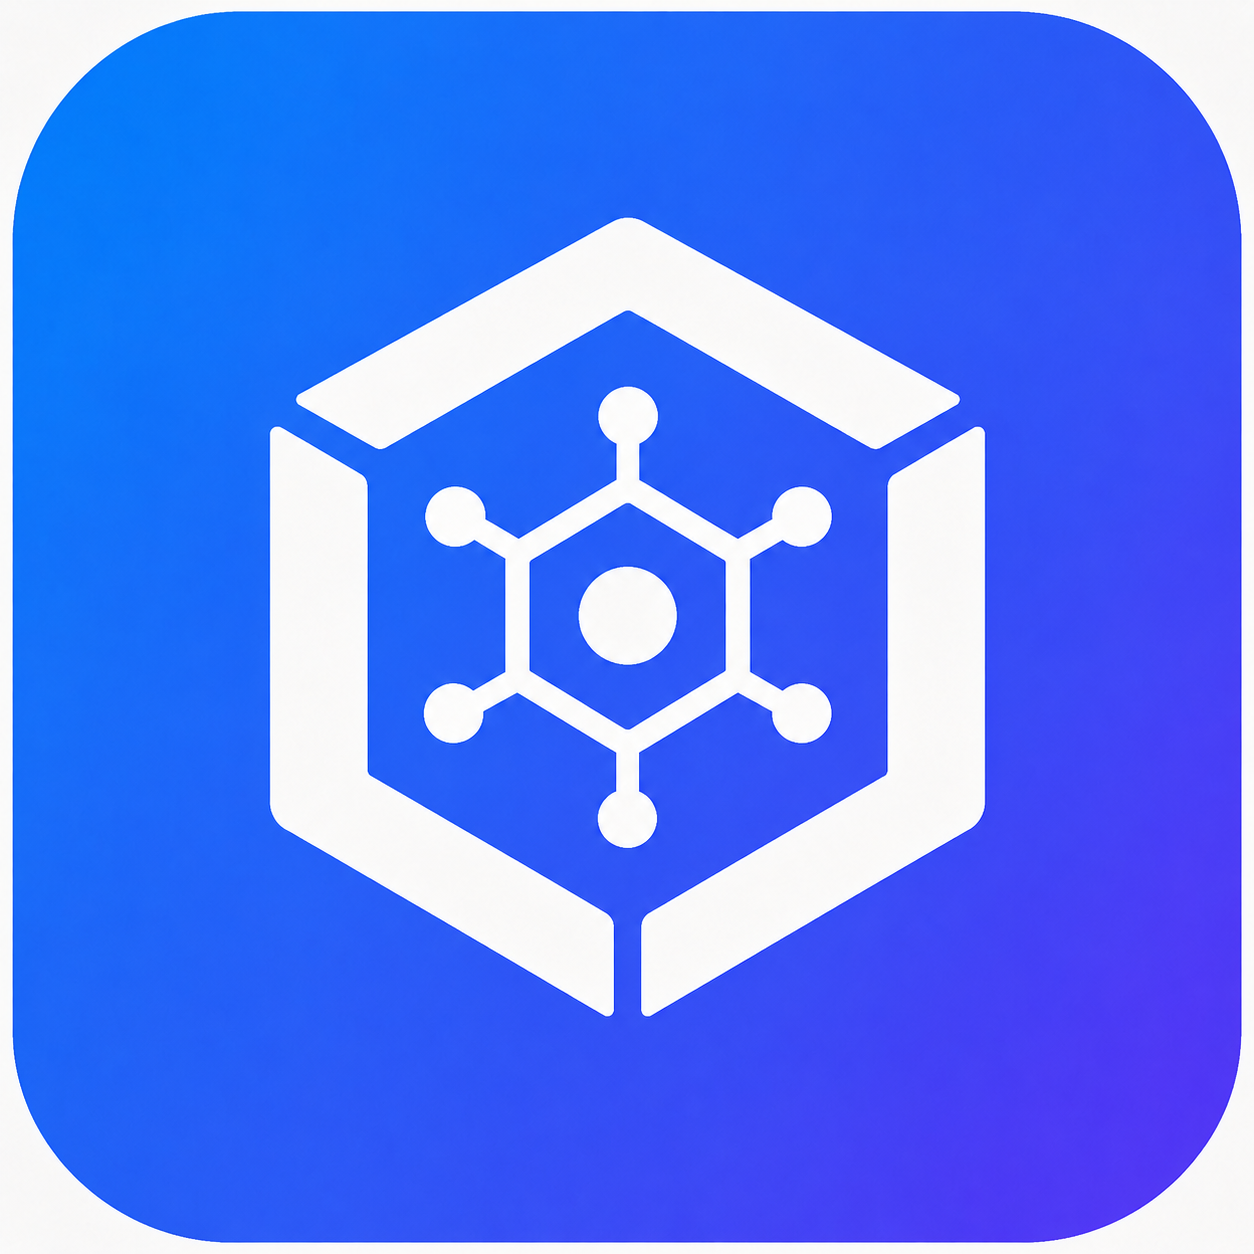
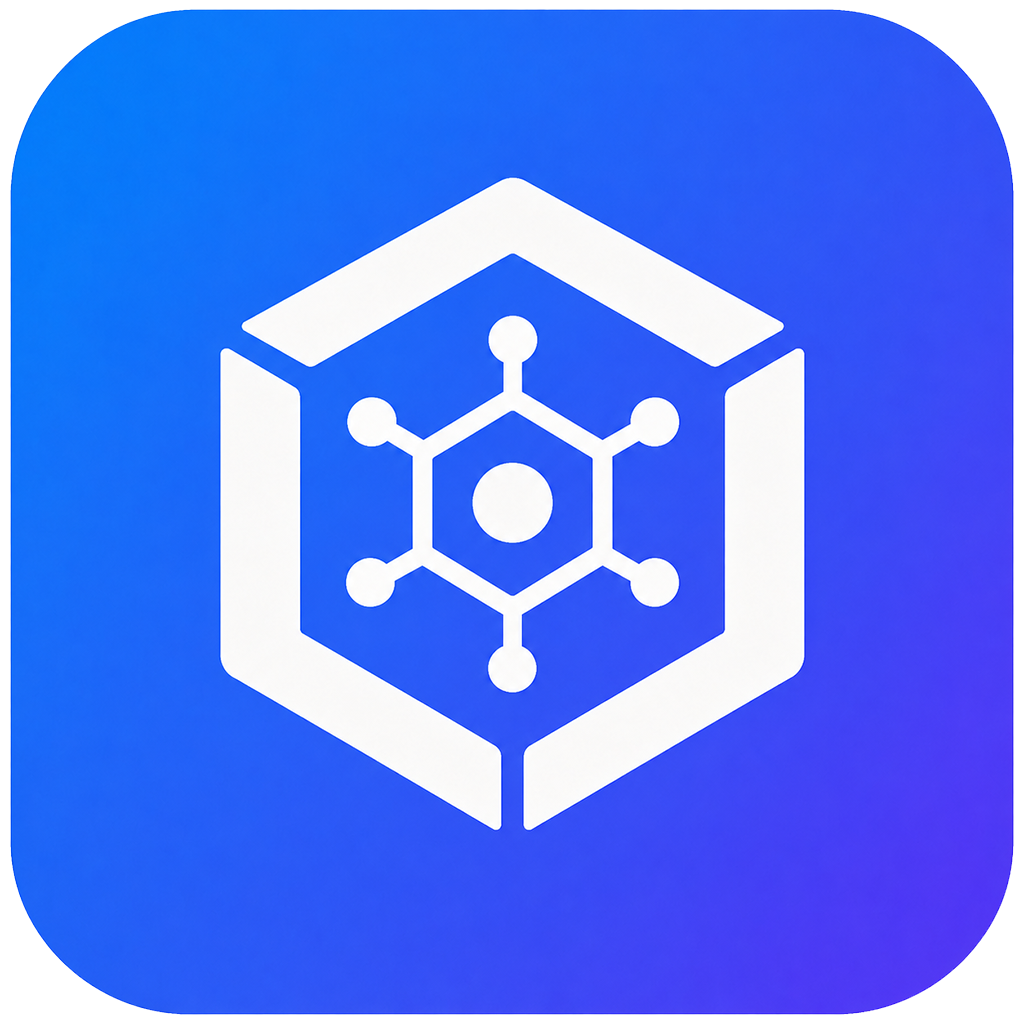
feat: move login from gate to footer, allow unauthenticated browsing
- Remove top-level OIDC auth gate in ContentView; always show main view
- Add login footer in VmListView for unauthenticated users
- Update app icon

diff --git a/src/manager-macos/Views/VmListView.swift b/src/manager-macos/Views/VmListView.swift
@@ -37,9 +37,20 @@ struct VmListView: View {
 
 private struct UserInfoFooter: View {
     @ObservedObject var oidcService: OidcService
+    @EnvironmentObject var appState: AppState
     @State private var showLogoutConfirm = false
 
     var body: some View {
+        if oidcService.isAuthenticated {
+            authenticatedFooter
+        } else {
+            loginFooter
+        }
+    }
+
+    // MARK: - 已登录状态
+
+    private var authenticatedFooter: some View {
         HStack(spacing: 10) {
             // 头像占位（首字母）
             ZStack {
@@ -77,6 +88,46 @@ private struct UserInfoFooter: View {
                     oidcService.logout()
                 }
                 Button("取消", role: .cancel) {}
+            }
+        }
+        .padding(.horizontal, 12)
+        .padding(.vertical, 10)
+        .background(.bar)
+    }
+
+    // MARK: - 未登录状态
+
+    private var loginFooter: some View {
+        VStack(spacing: 8) {
+            if let error = oidcService.loginError {
+                Text(error)
+                    .font(.system(size: 11))
+                    .foregroundStyle(.red)
+                    .multilineTextAlignment(.center)
+                    .lineLimit(2)
+                    .padding(.horizontal, 8)
+            }
+
+            if oidcService.isLoading {
+                HStack(spacing: 6) {
+                    ProgressView().controlSize(.small)
+                    Text("Waiting for browser…")
+                        .font(.system(size: 12))
+                        .foregroundStyle(.secondary)
+                }
+            } else {
+                Button {
+                    oidcService.login(
+                        cloudUrl: appState.cloudUrl,
+                        oidcIssuer: appState.oidcIssuer
+                    )
+                } label: {
+                    Label("登录", systemImage: "person.badge.key.fill")
+                        .frame(maxWidth: .infinity)
+                }
+                .buttonStyle(.borderedProminent)
+                .controlSize(.small)
+                .disabled(appState.cloudUrl.isEmpty || appState.oidcIssuer.isEmpty)
             }
         }
         .padding(.horizontal, 12)

diff --git a/src/manager-macos/Views/ContentView.swift b/src/manager-macos/Views/ContentView.swift
@@ -10,14 +10,10 @@ struct ContentView: View {
     }
 
     var body: some View {
-        if oidcService.isAuthenticated {
-            authenticatedView
-        } else {
-            LoginView(cloudUrl: appState.cloudUrl, oidcIssuer: appState.oidcIssuer)
-        }
+        mainView
     }
 
-    private var authenticatedView: some View {
+    private var mainView: some View {
         Group {
             if appState.isVmDisplayFullscreen {
                 fullscreenView